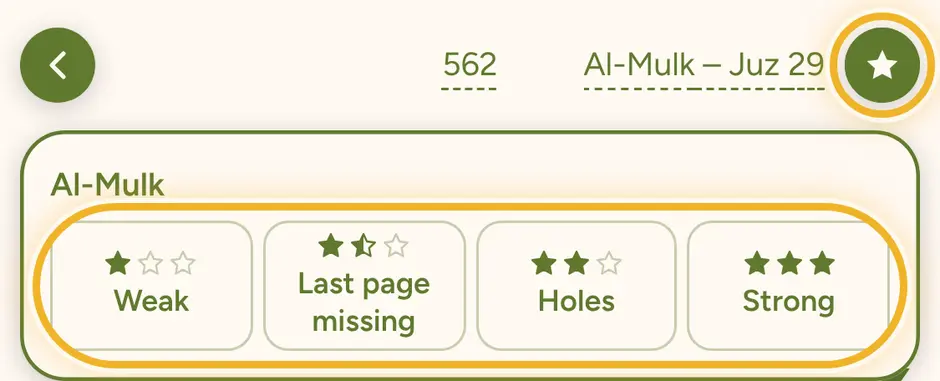
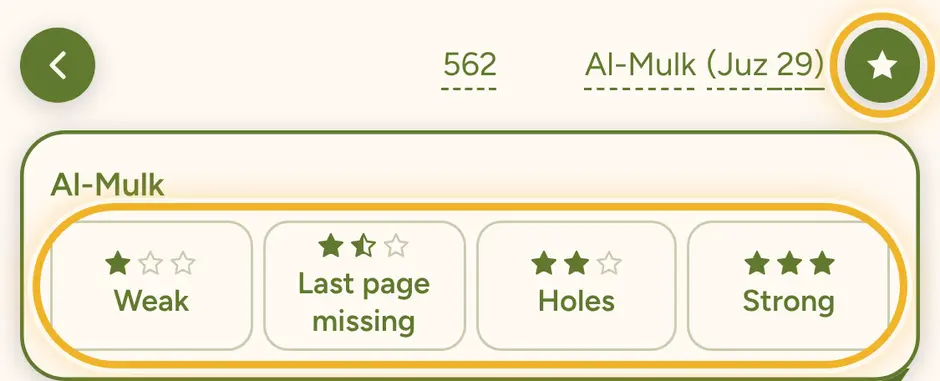
Mushaf header: "Surah (Juz n)", wrapping instead of cutting the name
When the rating's stars leave too little room, "(Juz n)" drops below the
Surah name rather than the name being cut short. The page number stays
centred.

Claude-Session: https://claude.ai/code/session_01Co3JXumQV2vF34bDNqrmHh

diff --git a/src/index.css b/src/index.css
@@ -538,7 +538,11 @@ select, input[type='number'] {
 .m-head .m-label { text-decoration: underline dashed 1px; text-underline-offset: 5px; }
 .m-head .back { justify-self: start; }
 .m-head .m-right { justify-self: end; display: flex; align-items: center; gap: var(--space-2); min-width: 0; max-width: 100%; } /* a long label shortens rather than running into the page number */
-.m-head .m-where { overflow: hidden; text-overflow: ellipsis; }
+/* "Surah (Juz n)": when the rating's stars leave too little room, "(Juz n)" drops below the name rather than the
+   name being cut short. Only a name too long for the space on its own is shortened. */
+.m-head .m-where { display: flex; flex-wrap: wrap; justify-content: flex-end; column-gap: 0.3em; row-gap: var(--space-1); min-width: 0; }
+/* The padding (taken back by the margin) keeps the dashed underline inside what the overflow clips. */
+.m-head .m-where .m-label { min-width: 0; max-width: 100%; overflow: hidden; text-overflow: ellipsis; padding-bottom: 7px; margin-bottom: -7px; }
 /* Rate (from Muraja'a): a star disc in the top-right corner, matching the back button. */
 .mushaf .rate {
   flex: none;

diff --git a/src/MushafPage.tsx b/src/MushafPage.tsx
@@ -426,8 +426,9 @@ export default function MushafPage({
         <span className="m-page m-label">{page}</span>
         <span className="m-right">
           {top && (
-            <span className="m-where m-label">
-              {surahName(top.surah)} – Juz {juzOfAyah(ayahIndex(top))}
+            <span className="m-where">
+              <span className="m-label">{surahName(top.surah)}</span>{' '}
+              <span className="m-label">(Juz {juzOfAyah(ayahIndex(top))})</span>
             </span>
           )}
           {rating && !zoomed && (

diff --git a/PLAN.md b/PLAN.md
@@ -56,6 +56,7 @@ Changes from my note cards. I rate each Surah myself (★ weak, ★½ last page 
 34. ✅ **Hifz tip, Amiri ب, no rating while zoomed** (builder's request): the Hifz page's tip is "Hifz, ayah by ayah", with a line for each button ("+ ayah: add the next ayah once you know this one. 1 / 7 is how many of the page's ayahs are showing.", and so on). A tip's lines show as separate short paragraphs, and on a short phone its picture is smaller (the sheet scrolls if it is still too tall). The magnifying glass on "Ayah by ayah" holds ب set in Amiri, a touch bolder so its dot shows. While ayah by ayah is zoomed in, the rating star and its panel are put away; a rating reminder waits until the whole page shows.
 35. ✅ **Tip wording for × and fading buttons** (builder's request): in the Hifz and Ayah by ayah tips, × leaves ayah by ayah for the normal Mushaf page, and the × in a tip's words is drawn larger, bolder and red, like the button (a lighter red in dark mode, to stay readable). The Hifz, Rabt and Muraja'a tips end "If the buttons fade, tap the screen to show them again."
 36. ✅ **"2. Half"** (builder's request): the button and every mention of it are capitalised, "2. Half".
+37. ✅ **"Surah (Juz n)" in the Mushaf header** (builder's request): the header reads "Al-Jathiyah (Juz 25)" instead of "Al-Jathiyah – Juz 25". When the rating's stars leave too little room, "(Juz n)" drops below the name instead of the name being cut short; the page number stays centred. Only a name too long on its own (Al-Muzzammil on a 320px phone) is shortened with "…".
 ## How we'll know it works
 
 1. Rate al-Mulk ★★★ and al-Qalam ★: the Surahs screen shows al-Mulk under strong and al-Qalam under weak, and both are still there after a Backup and restore.
